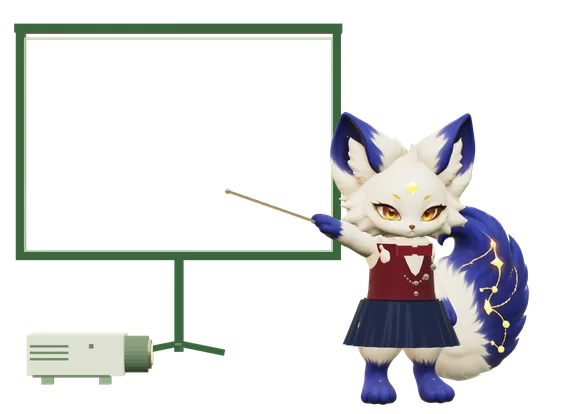
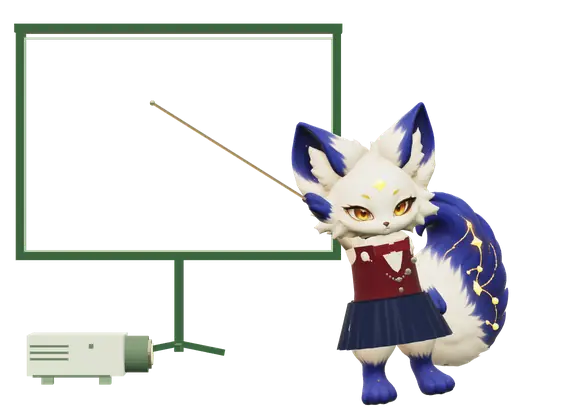
feat(metodo): Sophia sincronizada com o ciclo de 20 s — aponta cada etapa, estica, cai e levanta
Loop da Sophia em 20 s exatos (119 quadros, duração variável) e cenário em camada
separada; ponteiro telescópico; script reinicia o ciclo CSS junto com o loop.

Claude-Session: https://claude.ai/code/session_01QGhaqhyonAJ4q3JqQit1gc

diff --git a/src/styles/method-scene.css b/src/styles/method-scene.css
@@ -164,6 +164,19 @@ html:not([data-legacy-mode='true']):not([data-serious-mode='true']) .method-sect
   user-select: none;
   -webkit-user-drag: none;
 }
+/* Sophia: recorte 420×334 (x 132, y 80) do quadro 576×414, em % do figure — a mesma geometria do cenário. */
+.method-presenter__sophia {
+  position: absolute;
+  left: 22.917%;
+  top: 19.324%;
+  width: 72.917%;
+  height: 80.676%;
+  object-fit: fill;
+  pointer-events: none;
+  user-select: none;
+  -webkit-user-drag: none;
+}
+.method-presenter__sophia[hidden] { display: none; }
 .method-presenter__node {
   fill: #dde9dc;
   stroke: #8aa28d;

diff --git a/docs/method-scene.md b/docs/method-scene.md
@@ -2,16 +2,17 @@
 
 A seção 03 usa uma paleta de verde de eucalipto e uma apresentação no canto superior direito. Sophia aparece como apresentadora, em traje acadêmico: colete bordô com botões e corrente dourados, camisa marfim com laço, saia plissada azul-marinho e um ponteiro dourado preso à mão. Orelhas azul-marinho, olhos âmbar e a única cauda cósmica com constelações seguem a Sophia v1.4.1.
 
-O fluxograma segue concepção, execução, avaliação e registro. Avaliação recebe o destaque dourado e o ponteiro, pois a revisão humana orienta as decisões seguintes. Textos, caixas, setas e a face da tela continuam SVG acessível; a moldura da tela, o pedestal, o projetor, a Sophia e o ponteiro são objetos 3D pré-renderizados em um único WebP transparente que fica por cima do SVG.
+O fluxograma segue concepção, execução, avaliação e documentação (que volta a orientar a concepção). Textos, caixas, setas e a face da tela continuam SVG acessível; a moldura da tela, o pedestal e o projetor (camada de cenário) e a Sophia com o ponteiro (camada animada) são pré-renderizados em WebP transparente por cima do SVG.
 
-## Animação
+## Animação (20 s, sincronizada com o fluxograma)
 
-- O ciclo do fluxograma continua em 20 segundos (CSS).
-- O WebP da Sophia é um loop independente de 36 quadros (576 × 414, ~3 s): respiração, leve movimento da cabeça, balanço da cauda, duas piscadas (a primeira no quadro 11) e um tremor das orelhas.
-- O gerenciador de movimento decorativo pausa a cena fora da área visível, com a página oculta e com preferência por movimento reduzido. Nesses casos, entra o poster estático (`method-presenter-r1-still.webp`). Em telas até 820px, a cena fica abaixo da introdução.
+- O WebP da Sophia dura exatamente 20 s (119 quadros com duração variável: mais quadros na queda e nas trocas, menos nas pausas) e acompanha o destaque do momento: a cada 5 s ela aponta a etapa em destaque; na troca, o ponteiro (telescópico) já vai para a próxima.
+- Nas etapas distantes (Concepção e Documentação) ela se inclina sobre a ponta das patas e estica o ponteiro; perto de 1,9 s e 16,9 s perde o equilíbrio, cai, levanta, faz uma cara desengonçada (olhos semicerrados, cabeça torta, cauda e orelhas) e volta a apontar.
+- Respiração, balanço da cauda, piscadas e tremor das orelhas continuam.
+- Ao entrar em movimento, o script decodifica as duas camadas e reinicia as animações CSS do fluxograma junto com o loop. Fora da tela, com a página oculta ou com movimento reduzido, entra o poster estático (`method-presenter-r1-still.webp`) e o loop não é baixado. Em telas até 820px, a cena fica abaixo da introdução.
 
 ## Assets e privacidade
 
-`public/images/sophia/method-presenter-r1.webp` (loop com alfa, ~570 KB) e `method-presenter-r1-still.webp` (poster, ~22 KB). O GLB da Sophia, os arquivos Blender e as texturas de origem são privados e não entram no repositório; os quadros foram renderizados fora do navegador.
+`method-presenter-r1-loop.webp` (Sophia, 294 × 234, ~650 KB), `method-presenter-r1-scene.webp` (cenário, ~3 KB) e `method-presenter-r1-still.webp` (poster, ~16 KB) em `public/images/sophia/`. O GLB da Sophia, os arquivos Blender e as texturas de origem são privados e não entram no repositório; os quadros foram renderizados fora do navegador.
 
 Componente: `src/components/MethodPresenter.astro`. Estilo: `src/styles/method-scene.css`. Teste: `tests/method-presenter-r1.test.mjs`.
